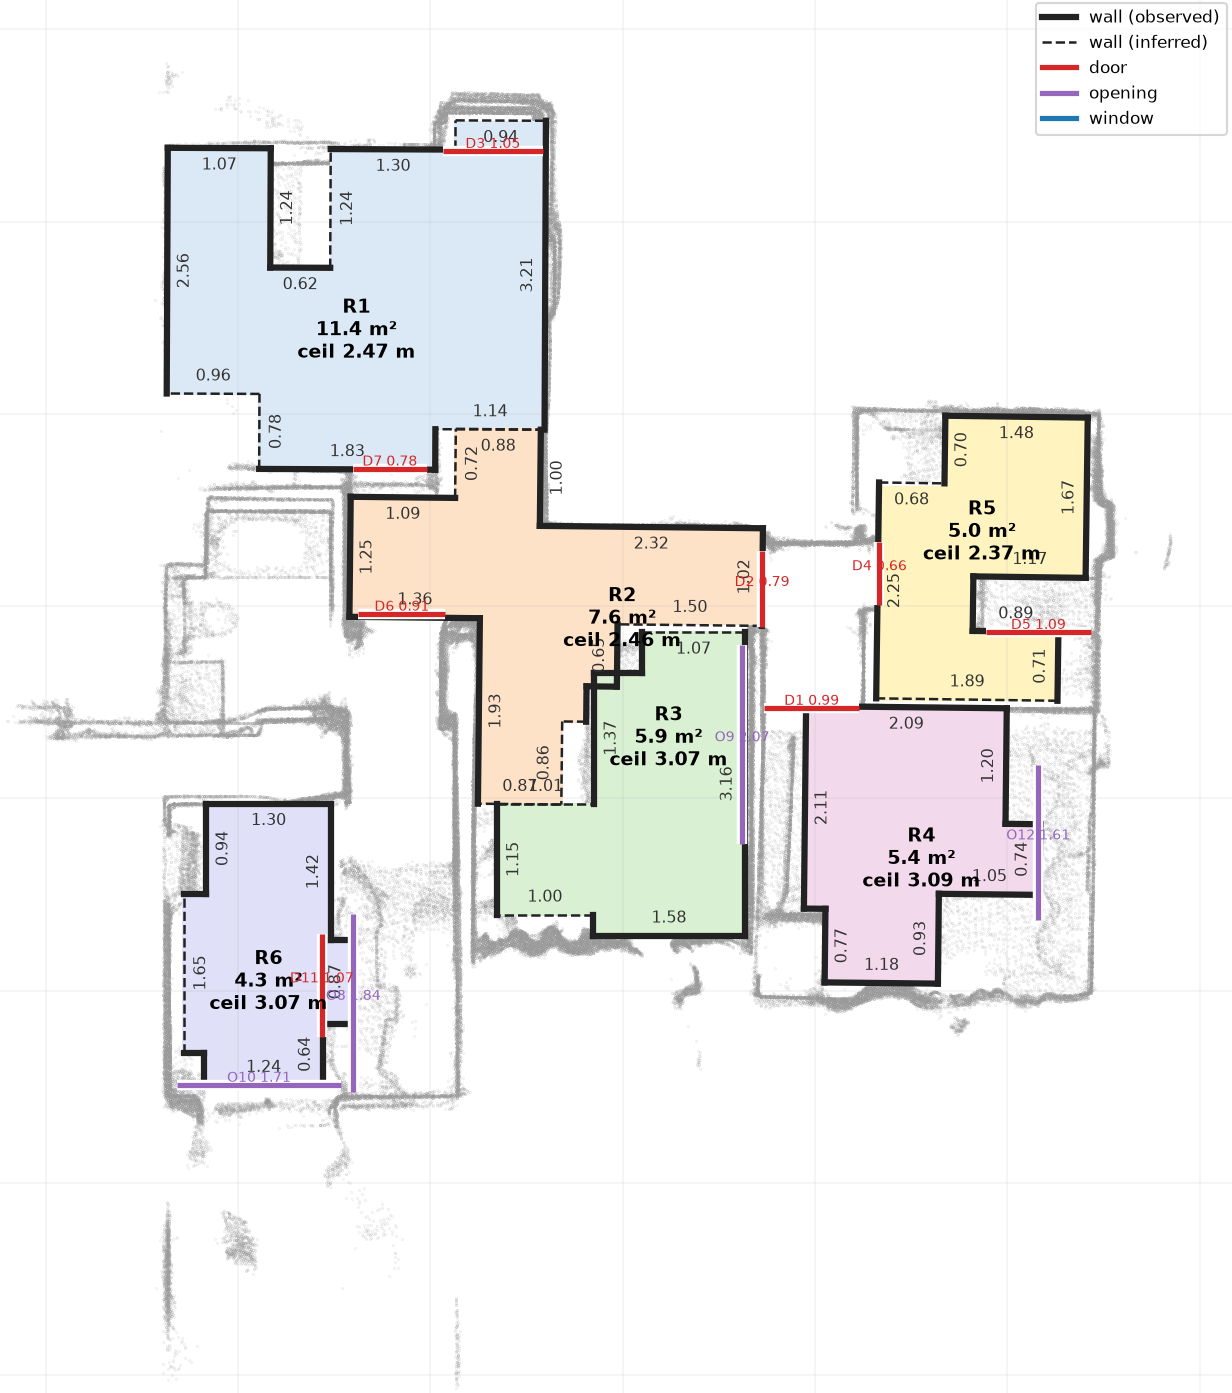
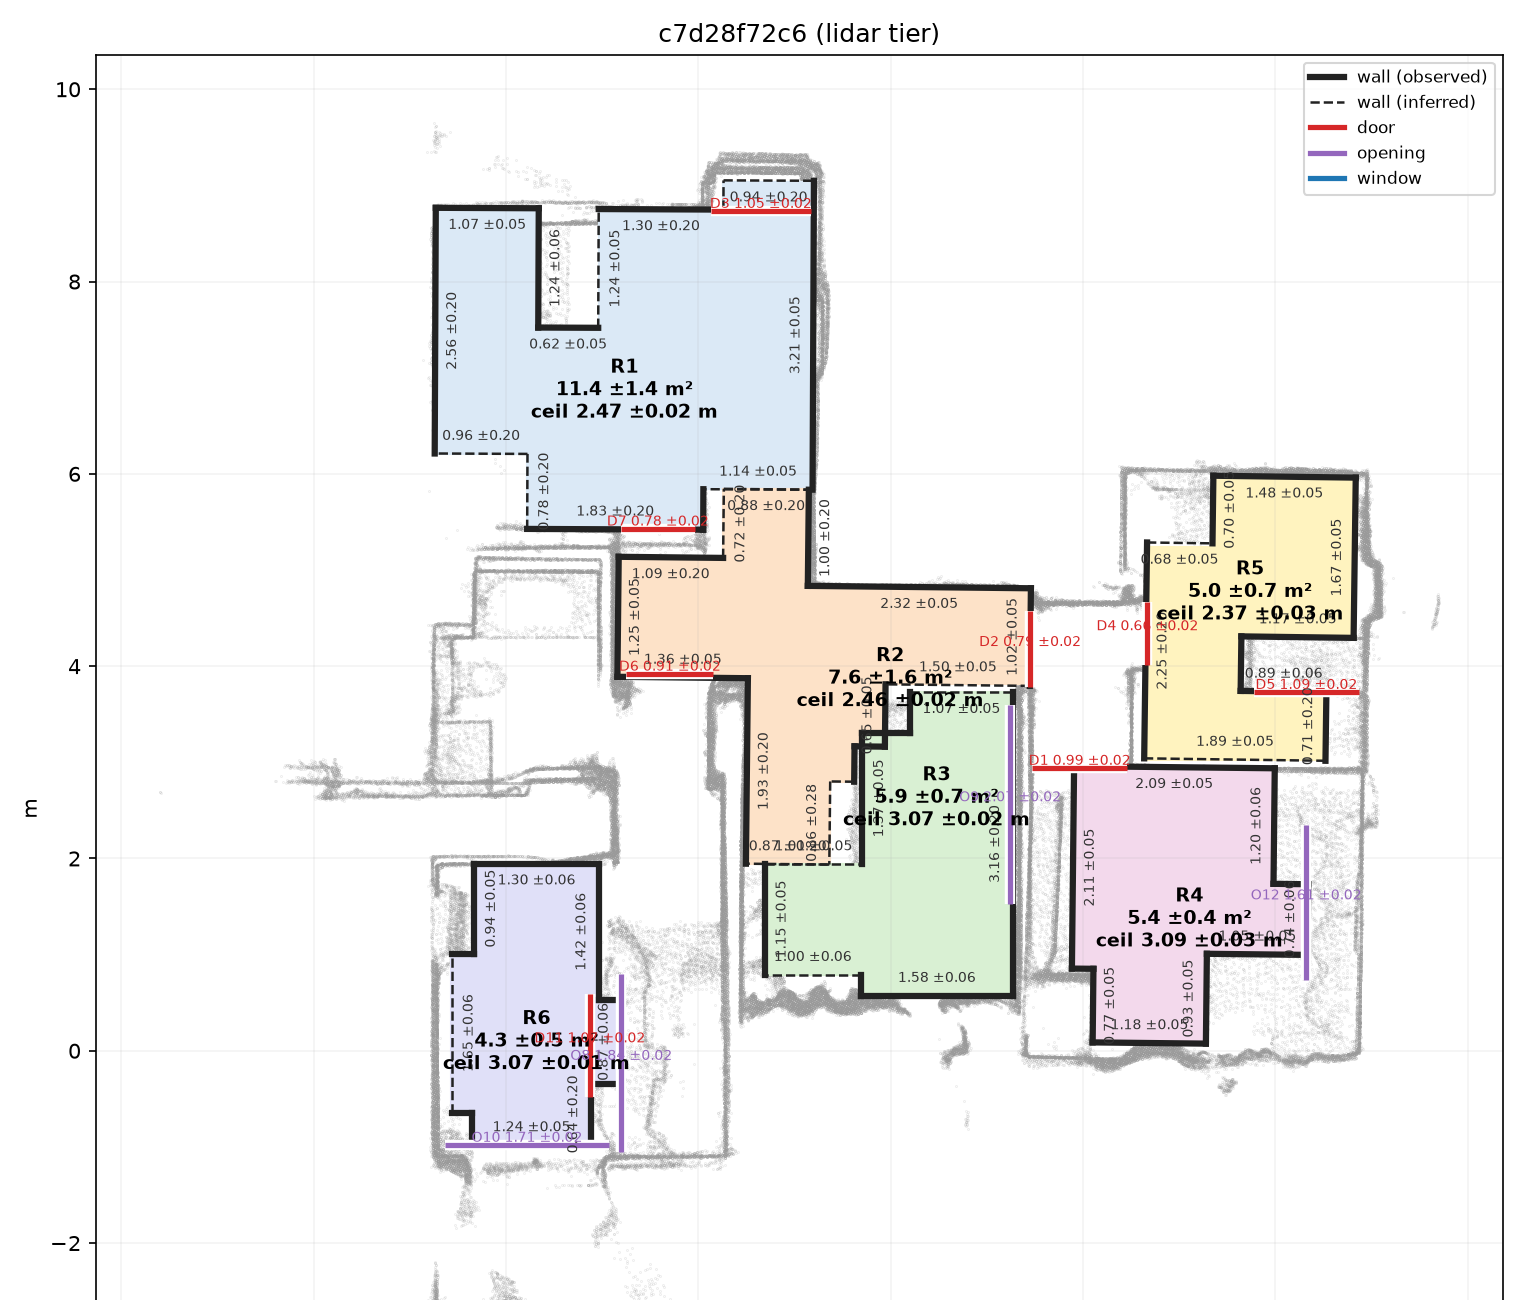
Docs: fresh-clone README timing, final plan figure with intervals
Following the README on a fresh clone (clone, venv, install, weights, one run on the 41 s
three-room .zip) took 2.2 minutes and the plan validated; the compliance row says so. Figure 1
is now the final ceiling-capture plan, which shows each value's 95% interval. The benchmark
report names c2ef7cd as the code behind its numbers.

Claude-Session: https://claude.ai/code/session_01CRNLkk1MzsRNCgfdnVEYa9

diff --git a/docs/compliance.md b/docs/compliance.md
@@ -66,7 +66,7 @@ which gates can be measured and how.
 |---|---|---|
 | 1. Compliance matrix | `docs/compliance.md` | met |
 | 2. Capture route and device matrix | `docs/capture_protocol.md` | met |
-| 3. README to a running fresh capture in 15 minutes | `README.md` | {{readme_status}} |
+| 3. README to a running fresh capture in 15 minutes | `README.md` | met for the LiDAR tier: following the README on a fresh clone (Linux, 4 CPU cores), clone, venv, install, weights and a run on a 41 s three-room .zip took 2.2 minutes, and the plan validated. The learned models for video and photo (about 6 GB) were not part of that test |
 | 4. Reproduction bundle | `scripts/`, `scripts/fetch_weights.sh`, README "Reproduce every number" | met |
 | 5. Benchmark report | `docs/benchmark_report.md`, `bench/benchmark.json` | met |
 | 6. Fix loop bundle | `docs/fix_loop.md`, `bench/fixloop/` | met |

diff --git a/docs/technical_report.md b/docs/technical_report.md
@@ -36,8 +36,9 @@ geometry stages. The photo tier is described in section 3.
 
 <figure><img src="figures/plan_with_ceiling.png" style="width:68%"><figcaption>Figure 1. LiDAR-tier plan of the
 ceiling capture (215 s walk, one command, no settings): six rooms placed in one frame with wall
-lengths, floor areas, ceiling heights, doors (red) and wide openings (purple). Solid walls were
-measured; dashed ones are inferred where the wall was not seen. Grey: fused wall points.</figcaption></figure>
+lengths, floor areas, ceiling heights, doors (red) and wide openings (purple), each with its 95%
+interval (±). Solid walls were measured; dashed ones are inferred where the wall was not seen.
+Grey: fused wall points. Grid: 2 m.</figcaption></figure>
 
 ## 3. Tiers and device matrix
 

diff --git a/docs/benchmark_report.md b/docs/benchmark_report.md
@@ -1,8 +1,9 @@
 # Benchmark report
 
 All numbers come from `bench/` and regenerate with the commands under "Reproduce every
-number" in the README. Code: commit `d340327` or later on `main`; the plans it scores are
-identical to those of `9414ce7` (rerun and compared polygon by polygon).
+number" in the README. Code: commit `c2ef7cd` on `main`. The LiDAR plans it scores were made by
+`d340327`; rerun with `c2ef7cd`, the bedroom cut's plan differs by at most 1e-14, and the LiDAR
+rows of `bench/benchmark.json` are unchanged. The video and photo rows come from `c2ef7cd`.
 
 ## What could be measured
 
